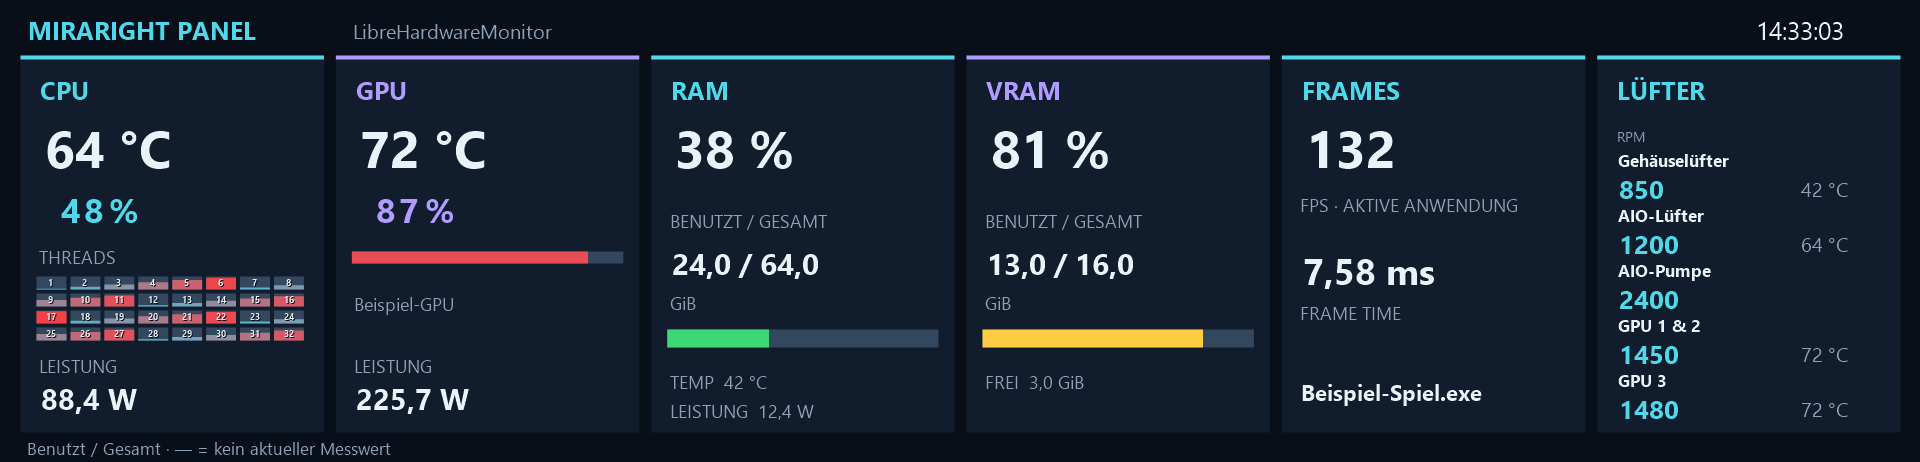
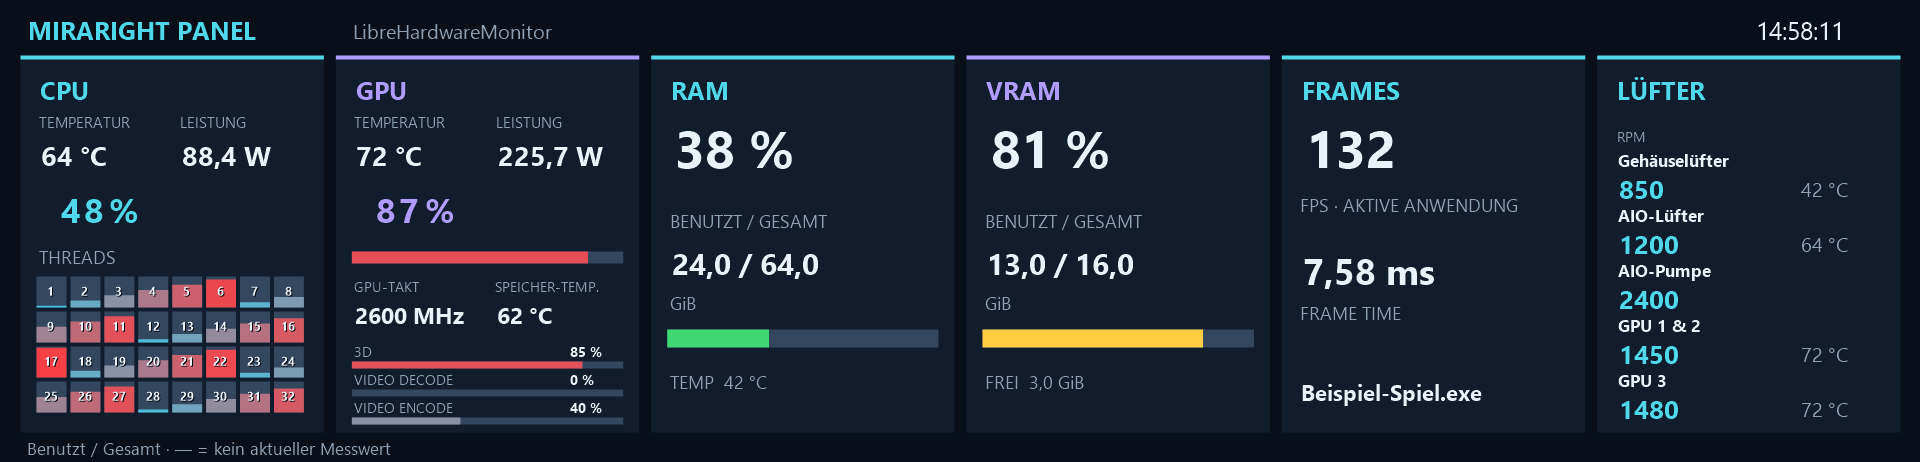
Release preview.6 with GPU engine details and expanded CPU thread grid

diff --git a/src/FlexPanel.Core/Renderer.cs b/src/FlexPanel.Core/Renderer.cs
@@ -15,20 +15,19 @@ public static partial class Renderer {
    string card=c.Cards[i];Text(g,card=="FANS"?"LÜFTER":card,x+18,92,22,White,true);
    float yy=137;void Big(string text){Text(g,text,x+18,yy,52,accent,true,width-32);}
    void Row(string name,string value,int row){Text(g,name,x+18,242+row*51,17,Muted);Text(g,value,x+18,263+row*51,23,White,true,width-32);}
-   void CpuGpuDetails(double? temperature,double? watts){Text(g,"TEMPERATUR",x+18,361,15,Muted);Text(g,N(temperature," °C"),x+18,383,23,White,true,width/2-20);Text(g,"LEISTUNG",x+width/2+4,361,15,Muted);Text(g,N(watts," W","0.0"),x+width/2+4,383,23,White,true,width/2-20);}
    void Bar(double? used,double? total){float y=211;using var bb=new SolidBrush(Color.FromArgb(40,54,69));g.FillRectangle(bb,x+18,y,width-36,9);if(used.HasValue&&total>0){double percent=Math.Clamp(used.Value/total.Value*100,0,100);using var ab=new SolidBrush(card is "RAM" or "VRAM"?MemoryColor(percent):LoadColor(percent));g.FillRectangle(ab,x+18,y,(width-36)*(float)(percent/100),9);}}
    switch(card){
     case "CPU":
-     Percentage(g,s.CpuLoad,x+18,128,50,accent);
-     using(var track=new SolidBrush(Color.FromArgb(40,54,69)))g.FillRectangle(track,x+18,197,width-36,6);
-     if(BarValue(s,"cpu",s.CpuLoad) is double load){using var fill=new SolidBrush(LoadColor(load));g.FillRectangle(fill,x+18,197,(width-36)*(float)Math.Clamp(load/100,0,1),6);}
+     Percentage(g,s.CpuLoad,x+18,128,44,accent);
+     using(var track=new SolidBrush(Color.FromArgb(40,54,69)))g.FillRectangle(track,x+18,190,width-36,6);
+     if(BarValue(s,"cpu",s.CpuLoad) is double load){using var fill=new SolidBrush(LoadColor(load));g.FillRectangle(fill,x+18,190,(width-36)*(float)Math.Clamp(load/100,0,1),6);}
+     CpuGpuTopStats(g,s.CpuTemp,s.CpuWatts,x+18,202,width-36);
      var threads=s.CpuThreads.Length>0?ThreadBars(s):new double?[Environment.ProcessorCount];
-     Text(g,$"THREADS 1–{threads.Length}",x+18,212,13,Muted);
-     ThreadGrid(g,threads,x+18,236,width-36,106,accent,c.ThreadNumbers);
-     CpuGpuDetails(s.CpuTemp,s.CpuWatts);
+     Text(g,$"THREADS 1–{threads.Length}",x+18,264,13,Muted);
+     ThreadGrid(g,threads,x+18,294,width-36,126,accent,c.ThreadNumbers);
      break;
-    case "GPU":Percentage(g,s.GpuLoad,x+18,128,50,accent);using(var track=new SolidBrush(Color.FromArgb(40,54,69)))g.FillRectangle(track,x+18,197,width-36,6);if(BarValue(s,"gpu",s.GpuLoad) is double gpuLoad){using var fill=new SolidBrush(LoadColor(gpuLoad));g.FillRectangle(fill,x+18,197,(width-36)*(float)Math.Clamp(gpuLoad/100,0,1),6);}Text(g,s.GpuName,x+18,250,17,Muted,false,width-36);CpuGpuDetails(s.GpuTemp,s.GpuWatts);break;
-    case "RAM":Big(N(s.RamTotal>0?s.RamUsed/s.RamTotal*100:null," %"));Bar(BarValue(s,"ram",s.RamUsed),s.RamTotal);Row("BENUTZT / GESAMT",N(s.RamUsed,"","0.0")+" / "+N(s.RamTotal," GiB","0.0"),0);Row("TEMPERATUR",N(s.RamTemp," °C"),1);Row("LEISTUNGSAUFNAHME",N(s.RamWatts," W","0.0"),2);break;
+    case "GPU":Percentage(g,s.GpuLoad,x+18,128,44,accent);using(var track=new SolidBrush(Color.FromArgb(40,54,69)))g.FillRectangle(track,x+18,190,width-36,6);if(BarValue(s,"gpu",s.GpuLoad) is double gpuLoad){using var fill=new SolidBrush(LoadColor(gpuLoad));g.FillRectangle(fill,x+18,190,(width-36)*(float)Math.Clamp(gpuLoad/100,0,1),6);}CpuGpuTopStats(g,s.GpuTemp,s.GpuWatts,x+18,202,width-36);DrawGpuDetails(g,s,x+18,277,width-36,accent);break;
+    case "RAM":Big(N(s.RamTotal>0?s.RamUsed/s.RamTotal*100:null," %"));Bar(BarValue(s,"ram",s.RamUsed),s.RamTotal);Row("BENUTZT / GESAMT",N(s.RamUsed,"","0.0")+" / "+N(s.RamTotal," GiB","0.0"),0);Row("TEMPERATUR",N(s.RamTemp," °C"),1);if(s.RamWatts is double ramWatts&&double.IsFinite(ramWatts))Row("LEISTUNGSAUFNAHME",N(ramWatts," W","0.0"),2);break;
     case "VRAM":Big(N(s.VramTotal>0?s.VramUsed/s.VramTotal*100:null," %"));Bar(BarValue(s,"vram",s.VramUsed),s.VramTotal);Row("BENUTZT / GESAMT",N(s.VramUsed,"","0.0")+" / "+N(s.VramTotal," GiB","0.0"),0);Row("FREI",N(s.VramFree," GiB","0.0"),2);break;
     case "FRAMES":Big(N(s.Fps));Text(g,"FPS  /  GERENDERT",x+18,211,16,Muted);Row("FRAME TIME",N(s.FrameMs," ms","0.00"),0);Row("AKTIVE ANWENDUNG",s.FrameApp.Length>0?s.FrameApp:"—",2);break;
     case "FANS":DrawFans(g,s.Fans,x,width,accent);break;
@@ -36,6 +35,11 @@ public static partial class Renderer {
   }
   Text(g,"Balken = belegt / ausgelastet     ·     — = kein aktueller Messwert",24,438,13,Muted);
   return b;
+ }
+ static void CpuGpuTopStats(Graphics g,double? temperature,double? watts,float x,float y,float width){
+  float column=(width-12)/2;
+  Text(g,"TEMPERATUR",x,y,11,Muted,false,column);Text(g,"LEISTUNG",x+column+12,y,11,Muted,false,column);
+  Text(g,N(temperature," °C"),x,y+24,23,White,true,column);Text(g,N(watts," W","0.0"),x+column+12,y+24,23,White,true,column);
  }
  static string ShortFanName(string name)=>name.Contains("NVIDIA",StringComparison.OrdinalIgnoreCase)?name.Contains("1&2")?"GPU 1 & 2":"GPU 3":name=="Gehäuse Fans unten"?"Gehäuse unten":name=="AIO Fans"?"AIO-Lüfter":name=="AIO Pumpe"?"AIO-Pumpe":name;
  static void DrawFans(Graphics g,FanReading[] fans,float x,float width,Color accent){
@@ -53,7 +57,7 @@ public static partial class Renderer {
  static void ThreadGrid(Graphics g,double?[] loads,float x,float y,float width,int height,Color accent,bool numbers){
   const int gap=6;int columns=Math.Min(8,loads.Length),rows=(loads.Length+columns-1)/columns;
   int cellWidth=(int)Math.Floor((width-(columns-1)*gap)/columns);
-  int innerHeight=Math.Min(20,(height-(rows-1)*gap)/rows-2),cellHeight=innerHeight+2;
+  int innerHeight=Math.Max(1,(height-(rows-1)*gap)/rows-2),cellHeight=innerHeight+2;
   var smoothing=g.SmoothingMode;g.SmoothingMode=SmoothingMode.None;
   using var border=new Pen(Color.FromArgb(65,85,103));using var background=new SolidBrush(Color.FromArgb(28,41,55));using var missing=new Pen(Muted);
   for(int i=0;i<loads.Length;i++){

diff --git a/tests/AioDisplay.Tests/GpuDetailsChecks.cs b/tests/AioDisplay.Tests/GpuDetailsChecks.cs
@@ -1,0 +1,27 @@
+// SPDX-License-Identifier: GPL-3.0-only
+static class GpuDetailsChecks {
+ static void Check(bool value,string what){if(!value)throw new Exception(what);}
+ public static void Run(){
+  FlexPanel.Reading R(string gpu,string name,string unit,double? value)=>new(gpu,gpu,"GpuNvidia",gpu+"/"+name,name,unit,value);
+  var sample=new FlexPanel.Snapshot{GpuName="gpu-a",Sensors=[R("gpu-a","GPU Core","Clock",2600),R("gpu-a","GPU Memory Junction","Temperature",62),R("gpu-a","D3D 3D","Load",85),R("gpu-a","D3D Video Decode","Load",0),R("gpu-a","D3D Video Encode","Load",20),R("gpu-a","D3D Video Encode","Load",40),R("gpu-b","GPU Core","Clock",9999)]};
+  var details=FlexPanel.GpuDetails.Apply(sample,"gpu-a");
+  Check(details.GpuClockMhz==2600&&details.GpuMemoryTemp==62&&details.Gpu3dLoad==85&&details.GpuDecodeLoad==0&&details.GpuEncodeLoad==40,"selected GPU details and multiple engines use maximum");
+  var onlyAggregate=FlexPanel.GpuDetails.Apply(new(){GpuName="gpu-a",Sensors=[R("gpu-a","GPU Video Engine","Load",77)]},"gpu-a");
+  Check(onlyAggregate.GpuDecodeLoad==null&&onlyAggregate.GpuEncodeLoad==null&&onlyAggregate.GpuMemoryTemp==null,"aggregate video engine not invented as decode/encode");
+  var other=FlexPanel.GpuDetails.Apply(sample,"gpu-b");Check(other.GpuClockMhz==9999&&other.GpuMemoryTemp==null,"GPU switching does not borrow other device readings");
+  var msi=new FlexPanel.Afterburner.Data(DateTime.UtcNow,[new("GPU clock","MHz",1100,0,0x20,0),new("GPU clock","MHz",2400,1,0x20,1),new("GPU memory temperature","°C",62,1,0,2)],[new(0,"GPU A",8388608),new(1,"GPU B",16777216)]);
+  var mapped=FlexPanel.Afterburner.Build(msi,new(){GpuName="GPU B",VramTotal=16});
+  Check(mapped.GpuClockMhz==2400&&mapped.GpuMemoryTemp==62&&mapped.GpuDecodeLoad==null,"Afterburner details follow the selected GPU index without inventing missing engines");
+  var time=DateTime.UtcNow;var config=new FlexPanel.PanelConfig{BarWindowMs=1000};var bars=new FlexPanel.BarAverager();var numbers=new FlexPanel.ReadoutAverager();
+  var low=details with{At=time,GpuClockMhz=1000,GpuMemoryTemp=40,Gpu3dLoad=0,GpuDecodeLoad=0,GpuEncodeLoad=0};
+  numbers.Apply(bars.Apply(low,config,0),config,1000,0);
+  var high=details with{At=time.AddMilliseconds(100),GpuClockMhz=3000,GpuMemoryTemp=60,Gpu3dLoad=100,GpuDecodeLoad=100,GpuEncodeLoad=100};
+  var smooth=numbers.Apply(bars.Apply(high,config,100),config,1000,100);
+  Check(smooth.GpuClockMhz==2000&&smooth.GpuMemoryTemp==50&&smooth.Gpu3dLoad==50&&smooth.GpuDecodeLoad==50&&smooth.GpuEncodeLoad==50&&smooth.BarValues["gpu.encode"]==50,"new numbers and bars participate in smoothing");
+  var missing=numbers.Apply(high with{At=time.AddMilliseconds(200),GpuClockMhz=null,GpuMemoryTemp=null,GpuDecodeLoad=null},config,1000,200);
+  Check(missing.GpuClockMhz==null&&missing.GpuMemoryTemp==null&&missing.GpuDecodeLoad==null,"missing GPU readings clear immediately");
+  var fixture=details with{At=time,CpuLoad=48,CpuTemp=64,CpuWatts=88.4,CpuThreads=Enumerable.Range(0,32).Select(i=>(double?)(8+i*2)).ToArray(),GpuLoad=87,GpuTemp=72,GpuWatts=225.7,RamUsed=24,RamTotal=64,RamFree=40,RamTemp=46,RamWatts=null,VramUsed=13,VramTotal=16,VramFree=3,Fps=132,FrameMs=7.58,FrameApp="Beispiel-Spiel.exe",Fans=[new("case","Gehäuselüfter",900,"LHM",null,"","","",""),new("aio","AIO-Lüfter",1100,"LHM",64,"","","",""),new("pump","AIO-Pumpe",2800,"LHM",null,"","","","")]};
+  foreach(string design in new[]{"Classic","Thermalright"}){using var image=FlexPanel.Renderer.Draw(fixture,new(){Design=design,ThreadNumbers=true});image.Save("gpu-details-"+design+".png");}
+  Console.WriteLine("PASS: GPU isolation, clock/memory temperature, distinct video engines, missing values and smoothed details");
+ }
+}

diff --git a/src/FlexPanel.Core/ThermalrightRenderer.cs b/src/FlexPanel.Core/ThermalrightRenderer.cs
@@ -17,20 +17,19 @@ public static partial class Renderer {
    void Label(string text,float y)=>Text(g,text,x+16,y,14,Muted,false,width-32);
    switch(card){
     case "CPU":
-     Value(N(s.CpuTemp," °C"),112);Percentage(g,s.CpuLoad,x+16,186,30,cyan);
-     Label("THREADS",244);ThermalThreads(g,ThreadBars(s),x+16,276,width-32,68,cyan,c.ThreadNumbers);
-     Label("LEISTUNG",353);Value(N(s.CpuWatts," W","0.0"),378,25);break;
+     CpuGpuTopStats(g,s.CpuTemp,s.CpuWatts,x+16,112,width-32);Percentage(g,s.CpuLoad,x+16,186,30,cyan);
+     Label("THREADS",244);ThermalThreads(g,ThreadBars(s),x+16,276,width-32,140,cyan,c.ThreadNumbers);break;
     case "GPU":
-     Value(N(s.GpuTemp," °C"),112);Percentage(g,s.GpuLoad,x+16,186,30,purple);
+     CpuGpuTopStats(g,s.GpuTemp,s.GpuWatts,x+16,112,width-32);Percentage(g,s.GpuLoad,x+16,186,30,purple);
      ThermalMemory(g,BarValue(s,"gpu",s.GpuLoad),100,x+16,251,width-32,12,false);
-     Label(s.GpuName,291);Label("LEISTUNG",353);Value(N(s.GpuWatts," W","0.0"),378,25);break;
+     DrawGpuDetails(g,s,x+16,277,width-32,purple);break;
     case "RAM":case "VRAM":
      bool ram=card=="RAM";double? used=ram?s.RamUsed:s.VramUsed,total=ram?s.RamTotal:s.VramTotal;
      Value(N(total>0?used/total*100:null," %"),112);Label("BENUTZT / GESAMT",208);
      Value(N(used,"","0.0")+" / "+N(total,"","0.0"),242,26);Label("GiB",290);
      ThermalMemory(g,BarValue(s,ram?"ram":"vram",used),total,x+16,329,width-32,18,true);
      Label(ram?"TEMP  "+N(s.RamTemp," °C"):"FREI  "+N(s.VramFree," GiB","0.0"),369);
-     if(ram)Label("LEISTUNG  "+N(s.RamWatts," W","0.0"),398);break;
+     if(ram&&s.RamWatts is double ramWatts&&double.IsFinite(ramWatts))Label("LEISTUNG  "+N(ramWatts," W","0.0"),398);break;
     case "FRAMES":
      Value(N(s.Fps),112);Label("FPS · AKTIVE ANWENDUNG",192);Value(N(s.FrameMs," ms","0.00"),246,32);
      Label("FRAME TIME",300);Text(g,s.FrameApp.Length>0?s.FrameApp:"—",x+16,377,18,White,true,width-32);break;

diff --git a/src/FlexPanel.Core/Afterburner.cs b/src/FlexPanel.Core/Afterburner.cs
@@ -50,12 +50,13 @@ public static class Afterburner {
   double? vram=OnGpu(0x31,"MB")/1024;
   double? vramTotal=gpu?.MemoryKB>0?gpu.MemoryKB/1048576d:gpu!=null?baseline.VramTotal:null;
   var readings=rows.Select(e=>new Reading("afterburner/"+e.Gpu,"MSI Afterburner",e.Id is 0x80 or 0x90 or 0x100?"Cpu":e.Id==0x91?"Memory":"Afterburner","afterburner/"+e.Index,e.Name,e.Unit,e.Value)).ToArray();
-  return new Snapshot{At=data.Timestamp,SourceName="MSI Afterburner",CpuName=baseline.CpuName,GpuName=gpu?.Name??"GPU nicht zugeordnet",DiskName=baseline.DiskName,
+  var snapshot=new Snapshot{At=data.Timestamp,SourceName="MSI Afterburner",CpuName=baseline.CpuName,GpuName=gpu?.Name??"GPU nicht zugeordnet",DiskName=baseline.DiskName,
    CpuLoad=Global(0x90),CpuTemp=Global(0x80),CpuWatts=Global(0x100),CpuThreads=threads,
    GpuLoad=OnGpu(0x30,"%"),GpuTemp=OnGpu(0,"°C"),GpuWatts=OnGpu(0x61,"W"),RamUsed=ram,RamTotal=baseline.RamTotal,RamFree=Free(baseline.RamTotal,ram),
    VramUsed=vram,VramTotal=vramTotal,VramFree=Free(vramTotal,vram),Sensors=readings,
    FanChannels=rows.Where(e=>e.Unit.Equals("RPM",StringComparison.OrdinalIgnoreCase)).Select(e=>new FanChannel("afterburner/"+e.Index,e.Name,"afterburner/gpu/"+e.Gpu,e.Id is 0x11 or 0x13 or 0x15?data.Gpus.FirstOrDefault(g=>g.Index==e.Gpu)?.Name??"":"",e.Id is 0x11 or 0x13 or 0x15?(int)(e.Id-0x11)/2+1:0,e.Value,"MSI Afterburner")).ToArray(),
    SensorStatus="MSI Afterburner · "+rows.Length+" Sensoren · Kapazitäten: Windows/LHM"+(gpu==null?" · ausgewählte GPU nicht zugeordnet":"")};
+  return gpu==null?snapshot:GpuDetails.Apply(snapshot,"afterburner/"+gpu.Index);
  }
  static double? Free(double? total,double? used)=>total.HasValue&&used.HasValue&&used>=0&&used<=total?total-used:null;
 }

diff --git a/src/FlexPanel.Core/ReadoutAverager.cs b/src/FlexPanel.Core/ReadoutAverager.cs
@@ -24,11 +24,14 @@ public sealed class ReadoutAverager {
   var bars=new Dictionary<string,double>(s.BarValues);
   void RawBar(string key,double? value){if(!bars.ContainsKey(key)&&value is double v&&double.IsFinite(v))bars[key]=v;}
   RawBar("cpu",s.CpuLoad);RawBar("gpu",s.GpuLoad);RawBar("ram",s.RamUsed);RawBar("vram",s.VramUsed);
+  RawBar("gpu.3d",s.Gpu3dLoad);RawBar("gpu.decode",s.GpuDecodeLoad);RawBar("gpu.encode",s.GpuEncodeLoad);
   for(int i=0;i<s.CpuThreads.Length;i++)RawBar("thread:"+i,s.CpuThreads[i]);
   var result=s with{
    BarValues=bars,
    CpuLoad=M("cpu.load",s.CpuLoad),CpuTemp=M("cpu.temp",s.CpuTemp),CpuWatts=M("cpu.watts",s.CpuWatts),
    GpuLoad=M("gpu.load",s.GpuLoad),GpuTemp=M("gpu.temp",s.GpuTemp),GpuWatts=M("gpu.watts",s.GpuWatts),
+   GpuClockMhz=M("gpu.clock",s.GpuClockMhz),GpuMemoryTemp=M("gpu.memory.temp",s.GpuMemoryTemp),
+   Gpu3dLoad=M("gpu.3d",s.Gpu3dLoad),GpuDecodeLoad=M("gpu.decode",s.GpuDecodeLoad),GpuEncodeLoad=M("gpu.encode",s.GpuEncodeLoad),
    RamUsed=ram,RamFree=s.RamFree.HasValue&&ram.HasValue&&s.RamTotal.HasValue?Math.Max(0,s.RamTotal.Value-ram.Value):M("ram.free",s.RamFree),RamTemp=M("ram.temp",s.RamTemp),RamWatts=M("ram.watts",s.RamWatts),
    VramUsed=vram,VramFree=s.VramFree.HasValue&&vram.HasValue&&s.VramTotal.HasValue?Math.Max(0,s.VramTotal.Value-vram.Value):M("vram.free",s.VramFree),
    SsdTemp=M("ssd.temp",s.SsdTemp),DiskLoad=M("disk.load",s.DiskLoad),

diff --git a/src/FlexPanel.Core/GpuDetails.cs b/src/FlexPanel.Core/GpuDetails.cs
@@ -1,0 +1,21 @@
+// SPDX-License-Identifier: MIT
+namespace FlexPanel;
+
+public static class GpuDetails {
+ public static Snapshot Apply(Snapshot s,string gpuId){
+  var rows=s.Sensors.Where(r=>r.HardwareId==gpuId).ToArray();
+  if(rows.Length==0)rows=s.Sensors.Where(r=>r.Type.StartsWith("Gpu",StringComparison.OrdinalIgnoreCase)&&r.Hardware==s.GpuName).ToArray();
+  double? Read(string[] units,params string[] names){
+   foreach(string name in names){var found=rows.Where(r=>units.Contains(r.Unit,StringComparer.OrdinalIgnoreCase)&&r.Name.Equals(name,StringComparison.OrdinalIgnoreCase)&&r.Value is double v&&double.IsFinite(v)&&v>=0).Select(r=>r.Value).ToArray();if(found.Length>0)return found.Max();}
+   return null;
+  }
+  double? Load(params string[] names){double? value=Read(["Load","%"],names);return value.HasValue?Math.Clamp(value.Value,0,100):null;}
+  return s with{
+   GpuClockMhz=Read(["Clock","MHz"],"GPU Core","GPU clock","GPU core clock"),
+   GpuMemoryTemp=Read(["Temperature","°C","C"],"GPU Memory Junction","GPU Memory Temperature","GPU memory temperature"),
+   Gpu3dLoad=Load("D3D 3D","GPU usage","GPU Core"),
+   GpuDecodeLoad=Load("D3D Video Decode","GPU Video Decode","Video decode usage"),
+   GpuEncodeLoad=Load("D3D Video Encode","GPU Video Encode","Video encode usage")
+  };
+ }
+}

diff --git a/tests/AioDisplay.Tests/TestRunner.cs b/tests/AioDisplay.Tests/TestRunner.cs
@@ -25,7 +25,7 @@ internal static class TestRunner
             if (args.FirstOrDefault() == "--lifecycle") { IntegrationChecks.Lifecycle(args[2], args[3]); return 0; }
             if (args.FirstOrDefault() == "--parent-harness") { IntegrationChecks.ParentHarness(args[2]); return 0; }
             foreach (var type in new[] { typeof(Check), typeof(SettingsCheck), typeof(BarAveragerCheck), typeof(HardwareCheck), typeof(SnapshotFilesCheck), typeof(AboutChecks) }) type.GetMethod("Main", BindingFlags.Static | BindingFlags.Public | BindingFlags.NonPublic).Invoke(null, null);
-            DiscoveryChecks.Main(); FanNamesChecks.Main(); ProtocolChecks(); DebugLogChecks.Run(); PercentageChecks.Run(); ReadoutChecks.Run(); UnifiedChecks.Run(); Console.WriteLine("ALL REGRESSION TESTS PASSED"); return 0;
+            DiscoveryChecks.Main(); FanNamesChecks.Main(); ProtocolChecks(); DebugLogChecks.Run(); PercentageChecks.Run(); ReadoutChecks.Run(); GpuDetailsChecks.Run(); UnifiedChecks.Run(); Console.WriteLine("ALL REGRESSION TESTS PASSED"); return 0;
         }
         catch (Exception e) { Console.Error.WriteLine(e is TargetInvocationException ? e.InnerException : e); return 1; }
         finally { SensorHub.Stop(); }

diff --git a/src/FlexPanel.Core/GpuDetailsRenderer.cs b/src/FlexPanel.Core/GpuDetailsRenderer.cs
@@ -1,0 +1,17 @@
+// SPDX-License-Identifier: MIT
+namespace FlexPanel;
+
+public static partial class Renderer {
+ static void DrawGpuDetails(Graphics g,Snapshot s,float x,float y,float width,Color accent){
+  float column=(width-12)/2;
+  Text(g,"GPU-TAKT",x,y,10,Muted,false,column);Text(g,"SPEICHER-TEMP.",x+column+12,y,10,Muted,false,column);
+  Text(g,N(s.GpuClockMhz," MHz"),x,y+22,19,White,true,column);Text(g,N(s.GpuMemoryTemp," °C"),x+column+12,y+22,19,White,true,column);
+  void Engine(string name,string key,double? raw,int row){
+   float top=y+65+row*28;
+   Text(g,name,x,top,10,Muted,false,width-62);Text(g,N(raw," %"),x+width-55,top,10,White,true,55);
+   using var track=new SolidBrush(Color.FromArgb(51,71,95));g.FillRectangle(track,x,top+19,width,7);
+   if(BarValue(s,key,raw) is double value){using var fill=new SolidBrush(LoadColor(value));g.FillRectangle(fill,x,top+19,width*(float)Math.Clamp(value/100,0,1),7);}
+  }
+  Engine("3D","gpu.3d",s.Gpu3dLoad,0);Engine("VIDEO DECODE","gpu.decode",s.GpuDecodeLoad,1);Engine("VIDEO ENCODE","gpu.encode",s.GpuEncodeLoad,2);
+ }
+}

diff --git a/src/FlexPanel.Core/Model.cs b/src/FlexPanel.Core/Model.cs
@@ -55,6 +55,8 @@ public sealed record Snapshot {
  public double?[] CpuThreads {get;init;}=[];
  public IReadOnlyDictionary<string,double> BarValues {get;init;}=new Dictionary<string,double>();
  public double? GpuLoad {get;init;} public double? GpuTemp {get;init;} public double? GpuWatts {get;init;}
+ public double? GpuClockMhz {get;init;} public double? GpuMemoryTemp {get;init;}
+ public double? Gpu3dLoad {get;init;} public double? GpuDecodeLoad {get;init;} public double? GpuEncodeLoad {get;init;}
  public double? RamUsed {get;init;} public double? RamTotal {get;init;} public double? RamFree {get;init;}
  public double? RamTemp {get;init;} public double? RamWatts {get;init;}
  public double? VramUsed {get;init;} public double? VramTotal {get;init;} public double? VramFree {get;init;}

diff --git a/tools/Screenshots/Program.cs b/tools/Screenshots/Program.cs
@@ -27,7 +27,8 @@ static class DocumentationScreenshots
             CpuLoad=48, CpuTemp=64, CpuWatts=88.4,
             CpuThreads=Enumerable.Range(0,32).Select(i=>(double?)(6+(i*17)%91)).ToArray(),
             GpuLoad=87, GpuTemp=72, GpuWatts=225.7, GpuName="Beispiel-GPU",
-            RamUsed=24, RamTotal=64, RamFree=40, RamTemp=42, RamWatts=12.4,
+            GpuClockMhz=2600, GpuMemoryTemp=62, Gpu3dLoad=85, GpuDecodeLoad=0, GpuEncodeLoad=40,
+            RamUsed=24, RamTotal=64, RamFree=40, RamTemp=42, RamWatts=null,
             VramUsed=13, VramTotal=16, VramFree=3,
             Fps=132, FrameMs=7.58, FrameApp="Beispiel-Spiel.exe", SourceName="LibreHardwareMonitor",
             Fans=[new("case","Gehäuselüfter",850,"LibreHardwareMonitor",42,"","","",""),

diff --git a/src/FlexPanel.Core/BarAverager.cs b/src/FlexPanel.Core/BarAverager.cs
@@ -19,6 +19,7 @@ public sealed class BarAverager {
    if(samples.Count>0)result[key]=samples.Average(p=>p.value);
   }
   Add("cpu",snapshot.CpuLoad);Add("gpu",snapshot.GpuLoad);Add("ram",snapshot.RamUsed);Add("vram",snapshot.VramUsed);
+  Add("gpu.3d",snapshot.Gpu3dLoad);Add("gpu.decode",snapshot.GpuDecodeLoad);Add("gpu.encode",snapshot.GpuEncodeLoad);
   for(int i=0;i<snapshot.CpuThreads.Length;i++)Add("thread:"+i,snapshot.CpuThreads[i]);
   foreach(string key in history.Keys.Where(k=>!active.Contains(k)).ToArray())history.Remove(key);
   lastSample=snapshot.At;return snapshot with{BarValues=result};

diff --git a/src/FlexPanel.Core/HardwareBundle.cs b/src/FlexPanel.Core/HardwareBundle.cs
@@ -10,6 +10,7 @@ public sealed class HardwareBundle {
  public Snapshot Select(string source,string gpu){
   var table=source=="MSIAfterburner"?Afterburner:Libre;
   var selected=table.TryGetValue(gpu,out var exact)?exact:table.Values.OrderByDescending(s=>s.VramTotal??0).FirstOrDefault()??new Snapshot{SourceName=source};
+  if(source!="MSIAfterburner")selected=GpuDetails.Apply(selected,gpu);
   return selected with{Fps=Fps,FrameMs=FrameMs,FrameApp=FrameApp,FrameStatus=FrameStatus};
  }
  public static HardwareBundle Parse(string json){
